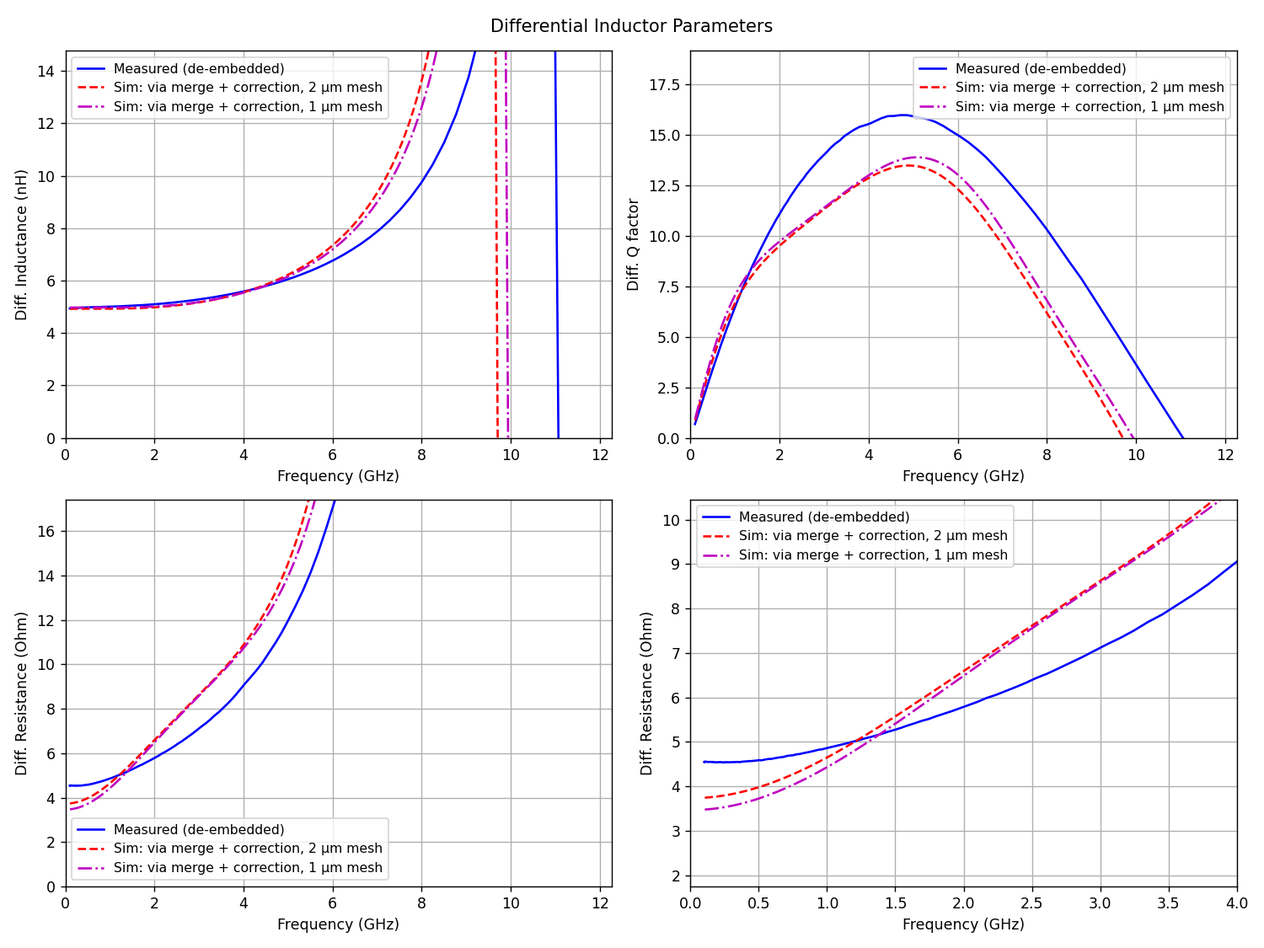
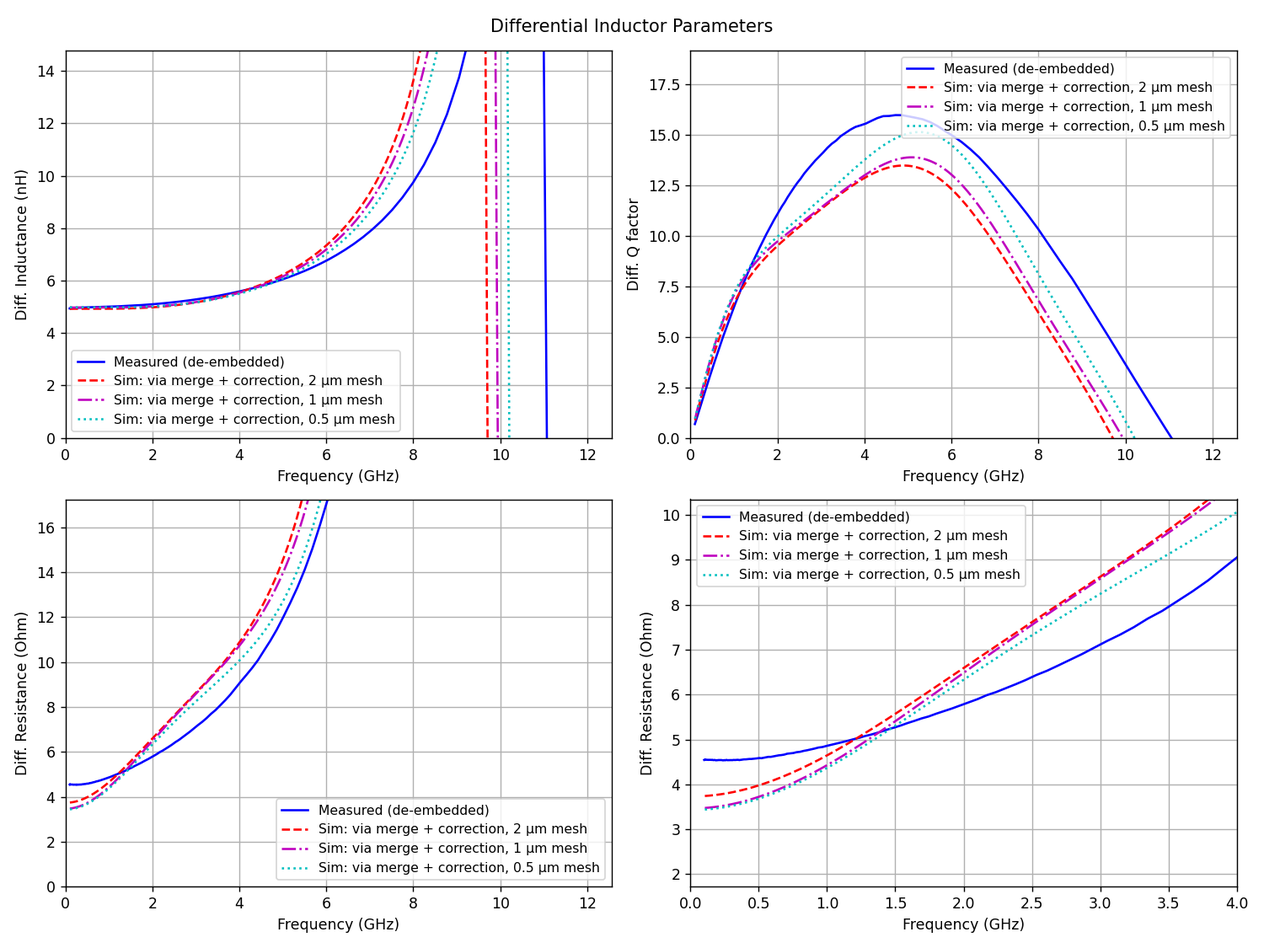
L6n2 study: 0.5 um mesh run, field/mesh plots, review fixes
- Mesh comparison with via fill correction at 2, 1 and 0.5 um
  (run_L6n2_mergecorrection_mesh0u5.py), plus the -60 dB mesh check.
- Layout, stackup and field/mesh detail images.
- Section renames, passivation cut section cleanup, formatting and typos.
- settings['numthreads'] -> settings['numThreads'] in the model scripts.

diff --git a/more_examples/measured_vs_simulated/more_accurate_models_L6n2/results/plot_study.py b/more_examples/measured_vs_simulated/more_accurate_models_L6n2/results/plot_study.py
@@ -28,6 +28,7 @@ def run(name, label):
 
 MEAS = (os.path.join(study_dir, "meas_L5_6n2_THRU_deemb.S2P"), "Measured (de-embedded)")
 MESH1 = run("run_L6n2_mesh1", "Sim: via merge, no correction, 1 µm mesh")
+E40_0U5_CORR = run("run_L6n2_mergecorrection_mesh0u5", "Sim: via merge + correction, 0.5 µm mesh")
 E40 = run("run_L6n2_mergecorrection_sweep_mesh1_limit-40", "Sim: end criterion -40 dB")
 E40_2UM = run("run_L6n2_mergecorrection_sweep_mesh2_limit-40", "Sim: via merge + correction, 2 µm mesh")
 E40_CORR = run("run_L6n2_mergecorrection_sweep_mesh1_limit-40", "Sim: via merge + correction, 1 µm mesh")
@@ -41,7 +42,7 @@ PALACE_REC = run("palace_L6n2_with_ports_2um_passi3D", "Palace: conformal passiv
 
 PLOTS = {
     "step1_via_merge_correction.png": [MEAS, MESH1, E40_CORR],
-    "step2_mesh.png": [MEAS, E40_2UM, E40_CORR],
+    "step2_mesh.png": [MEAS, E40_2UM, E40_CORR, E40_0U5_CORR],
     "step3_energy_limit.png": [MEAS, E40, E50, E60],
     "step4_passicut_2um.png": [MEAS, PLANAR_2UM, PASSICUT_2UM],
     "step4_passicut_1um.png": [MEAS, PASSICUT_2UM, PASSICUT_1UM],

diff --git a/more_examples/measured_vs_simulated/more_accurate_models_L6n2/run_L6n2_mesh1.py b/more_examples/measured_vs_simulated/more_accurate_models_L6n2/run_L6n2_mesh1.py
@@ -43,7 +43,7 @@ settings = {}
 settings['preview_only'] = False  # preview model/mesh only?
 settings['no_gui'] = False # if set to True, there is no mesh/model preview in AppCSXCAD, and simulation starts immediately.
 
-settings['numthreads'] = 0 # run on xx cores, changes to 0 for automatic detection by openEMS
+settings['numThreads'] = 0 # run on xx cores, changes to 0 for automatic detection by openEMS
 
 
 # ===================== input files and path settings =======================

diff --git a/more_examples/measured_vs_simulated/more_accurate_models_L6n2/run_L6n2_mergecorrection_passicut_fielddump.py b/more_examples/measured_vs_simulated/more_accurate_models_L6n2/run_L6n2_mergecorrection_passicut_fielddump.py
@@ -41,7 +41,7 @@ import numpy as np
 settings = {}
 
 settings['preview_only'] = False  # preview model/mesh only?
-settings['numthreads'] = 0 # run on xx cores, changes to 0 for automatic detection by openEMS
+settings['numThreads'] = 0 # run on xx cores, changes to 0 for automatic detection by openEMS
 
 # ===================== input files and path settings =======================
 

diff --git a/more_examples/measured_vs_simulated/more_accurate_models_L6n2/run_L6n2_mergecorrection_passicut_sweep.py b/more_examples/measured_vs_simulated/more_accurate_models_L6n2/run_L6n2_mergecorrection_passicut_sweep.py
@@ -41,7 +41,7 @@ import numpy as np
 settings = {}
 
 settings['preview_only'] = False  # preview model/mesh only?
-settings['numthreads'] = 0 # run on xx cores, changes to 0 for automatic detection by openEMS
+settings['numThreads'] = 0 # run on xx cores, changes to 0 for automatic detection by openEMS
 
 # ===================== input files and path settings =======================
 

diff --git a/more_examples/measured_vs_simulated/more_accurate_models_L6n2/run_L6n2_mergecorrection_sweep.py b/more_examples/measured_vs_simulated/more_accurate_models_L6n2/run_L6n2_mergecorrection_sweep.py
@@ -41,7 +41,7 @@ import numpy as np
 settings = {}
 
 settings['preview_only'] = False  # preview model/mesh only?
-settings['numthreads'] = 0 # run on xx cores, changes to 0 for automatic detection by openEMS
+settings['numThreads'] = 0 # run on xx cores, changes to 0 for automatic detection by openEMS
 
 # ===================== input files and path settings =======================
 

diff --git a/more_examples/measured_vs_simulated/more_accurate_models_L6n2/README.md b/more_examples/measured_vs_simulated/more_accurate_models_L6n2/README.md
@@ -1,41 +1,50 @@
 # L6n2 inductor with openEMS vs. measurement (IHP SG13G2)
 
-This study compares openEMS FDTD simulations of the L6n2 spiral inductor with a de-embedded measurement, one model setting at a time. It is the openEMS counterpart of the gds2palace study in `gds2palace_ihp_sg13g2/more_examples/measured_vs_simulated/more_accurate_models_L6n2`, and uses the same layout, measurement and differential L/R/Q evaluation.
+This study looks for the best possible model with highest accuracy for an inductor example, including comparison to measured data. There is a similar study for the gds2palace FEM workflow and some aspects are similar, but there is also **one important model setting specific to the FDTD method** used here.
 
-## Setup
+If you can't wait ... the best case result and comparison to measured and Palace FEM is at the end of this document.
+
+These potential error sources that are investigated, to get most accurate results:
+
+### Energy limit (FDTD simulation end criteria)
+We will see that the energy limit (FDTD stop criteria) is a critical model parameter here, which makes a real difference in R and Q at these frequencies. It deserves more attention, so this is investigated in detail.
+
+### Over-estimate of via cross section due to via array merging
+In most models, we want to merge via arrays into bigger blocks, to speed up simulation. Leaving all individual vias would be more accurate, causing much more complex mesh and increase simulation time. Via array merging replaces the individual vias by their outer bounding box, and here's the problem: the effective total cross section is now much larger than before, so this under-estimates the resulting via resistance. Only a minor error in many models, because the relative impact of via resistance is small. However, in this model investigated here, it does show up in results, and we will use a new option in gds2openEMS to restore the correct via resistance by applying a correction factor internally.
+
+### Conformal passivation
+The stackup used so far covers TopMetal2 with another thick **flat** layer of SiO2 plus Passivation. This is efficient for simulation, but the gds2palace study had clearly shown that this over-estimates the sidewall capacitance for closely spaced TopMetal2 conductors.  
+An alternative stackup is investigated, for more realistic results. This is **not** the same as used for gds2palace, because we need to consider the FDTD method requirements also.
+
+
+### Conductors model: surface vs. filled volumes ("mesh inside") 
+The FDTD flow with gds2openEMS always used filled metals (volumes with conductivity), so this topic from the FEM study is not relevant here.
+
+## Layout and setup
+
+<img src="results/plots/layout_labeled.png" width="800" alt="L6n2 layout with port positions labeled, IHP SG13G2 pixel-accurate colors (KLayout)">
 
 - **Layout:** `L6n2_with_ports.gds`, a 4-turn octagonal spiral on TopMetal2 (8 µm line width), with TopMetal1 underpasses connected through 8 TopVia2 arrays of 4×4 vias.
 - **Ports:** via ports P1 and P2 from SUBGND (ideal ground plane) to TopMetal1, at the two leads.
 - **Stackups:**
   - `openEMS_SG13G2_200um.xml`: planar, with SiO2 + passivation filling the gaps between the TopMetal2 traces;
-  - `openEMS_SG13G2_200um_passicut.xml`: passivation cut, used in Step 4.
+  - `openEMS_SG13G2_200um_passicut.xml`: passivation cut, see [Planar vs. cut passivation](#planar-vs-cut-passivation).
 - **Solver settings:** PEC boundaries with 250 µm margin, 20 cells per wavelength at fstop, and via array merging with `merge_polygon_size = 2`.
-- **Mesh:** `refined_cellsize` is the mesh size on the conductors: 2 µm or 1 µm.
+- **Mesh:** `refined_cellsize` is the mesh size on the conductors: 2 µm or 1 µm, plus one run at 0.5 µm.
 - **Software:** gds2openEMS 0.5.0 (needed for `settings['fill_factor_correction']`) and openEMS v0.0.36. All runs were on HPZ2; solve times below are for both port excitations together.
-- **Measurement:** `meas_L5_6n2_THRU_deemb.S2P`, de-embedded. It has a differential SRF of **11.07 GHz**, a peak Q of **15.96 at 4.71 GHz**, and a low-frequency differential resistance of **4.55 Ω** at 0.1 GHz.
+- **Measurement:** `meas_L5_6n2_THRU_deemb.S2P`, test fixture de-embedded
 
-All plots show the differential L, Q and R, from Zdiff = Z11 − Z12 − Z21 + Z22 (same calculation as the Palace study). The bottom-right panel zooms in on the low-frequency resistance.
+All plots show the differential L, Q and R, from Zdiff = Z11 − Z12 − Z21 + Z22, same calculation as the gds2palace study. The bottom-right panel zooms in on the low-frequency resistance.
 
-## Step 1: via array merging and the fill factor correction
+## First rrror source: via array merging, solved by fill factor correction
 
-Via array merging replaces each 4×4 via array by one block with the array's outline, roughly a 4× larger conductive cross section. The via conductivity in the stackup comes from the resistance of a single via, so merging lowers the via resistance.
+The effect of via array merging was investigated for this inductor because we have several via arrays, and the 8 μm line width requires small via arrays with only 4x4 vias.  
 
-**Expected size of the effect, from the Palace study:**
-- 8 arrays of 16 vias at 1.1 Ω per via give 8/16 × 1.1 Ω = 0.55 Ω of via resistance in series.
-- A 4× larger cross section removes about 0.4 Ω of that.
+With 8 via arrays and 16 vias each, we have a total of 8/16*1.1 Ohm nominal resistance from the vias = 0.55 Ohm. Via array merging replaces the individual vias by the overall bounding box, roughly a 4x increase in effective cross section. We expect to see a difference of ~ 0.4 Ohm, which sounds like a small effect only, but that is already ~10% of the total inductor resistance in this case (looking at DC values).
 
 `settings['fill_factor_correction'] = True` scales the conductivity of each merged block by its fill factor (original via area / merged area), which is 0.28 here.
 
-**Hand calculation:** to know the true DC resistance, the layout was also solved as a DC resistor network on a raster grid. That network has TopMetal1, TopMetal2 and the via blocks.
-
-| DC network, 0.5 µm grid | R_DC | TopMetal2 | TopMetal1 | Vias |
-|---|---|---|---|---|
-| Merged vias, no correction | 4.38 Ω | 3.66 Ω | 0.55 Ω | 0.17 Ω |
-| Merged vias with fill factor 0.28 | 4.78 Ω | 3.66 Ω | 0.55 Ω | 0.58 Ω |
-
-The difference is 0.40 Ω, as expected. With the correction, the network converges to about 4.7 Ω on finer grids: 4.96 Ω at 1 µm, 4.78 Ω at 0.5 µm and 4.72 Ω at 0.25 µm. The measurement gives 4.55 Ω.
-
-The openEMS runs are `run_L6n2_mesh1.py` (no correction) and the 1 µm, −40 dB case of `run_L6n2_mergecorrection_sweep.py` (with correction). Both use the planar stackup, a 1 µm mesh, fstop 14 GHz and the default end criterion of −40 dB:
+Two openEMS runs are compared, with and without the via array correction factor option that was introduced in gds2openEMS v0.5.0. Both use the planar stackup, a 1 µm mesh, fstop 14 GHz and the default end criterion of −40 dB:
 
 | Model | R @ 0.1 GHz | R @ 1 GHz | L @ 1 GHz | Peak Q | SRF | Solve time |
 |---|---|---|---|---|---|---|
@@ -45,22 +54,28 @@ The openEMS runs are `run_L6n2_mesh1.py` (no correction) and the 1 µm, −40 dB
 
 ![Step 1: via merge with and without fill factor correction](results/plots/step1_via_merge_correction.png)
 
-The correction adds 0.42 Ω, as expected (0.40 Ω). But both openEMS results are far below the hand calculation and the measurement: 3.48 Ω vs. about 4.7 Ω, with an offset of about 1.2 Ω. Inductance agrees well at low frequency, but the SRF and peak Q are too low (the passivation model, Step 4).
+The correction adds 0.42 Ω, as expected (0.40 Ω). But both openEMS results are far below the hand calculation and the measurement: 3.48 Ω vs. about 4.7 Ω, with an offset of about 1.2 Ω. Inductance agrees well at low frequency, but the SRF and peak Q are too low (the passivation model, see [Planar vs. cut passivation](#planar-vs-cut-passivation)).
 
-## Step 2: is the low resistance a mesh effect?
+You might notice a weird shape of the Q factor curve, this is a side effect of the energy convergence issue discussed below as error source 2.
 
-`run_L6n2_mergecorrection_sweep.py` also runs Step 1's corrected model with a 2 µm mesh. Both runs use the planar stackup, fstop 14 GHz and −40 dB:
+## Is the low resistance a mesh effect?
+
+`run_L6n2_mergecorrection_sweep.py` also runs the corrected model from error source 1 with a 2 µm mesh, and `run_L6n2_mergecorrection_mesh0u5.py` runs it with a 0.5 µm mesh. All runs use the planar stackup, fstop 14 GHz and −40 dB:
 
 | Mesh (via merge + correction, −40 dB) | R @ 0.1 GHz | L @ 1 GHz | Peak Q | SRF | Solve time |
 |---|---|---|---|---|---|
 | 2 µm | 3.74 Ω | 4.93 nH | 13.46 @ 4.90 GHz | 9.71 GHz | 118 s |
 | 1 µm | 3.48 Ω | 4.97 nH | 13.87 @ 5.08 GHz | 9.94 GHz | 689 s |
+| 0.5 µm | 3.44 Ω | 4.98 nH | 15.12 @ 5.25 GHz | 10.21 GHz | 5,506 s |
 
-![Step 2: 2 µm and 1 µm mesh](results/plots/step2_mesh.png)
+![Step 2: 2 µm, 1 µm and 0.5 µm mesh](results/plots/step2_mesh.png)
 
-A finer mesh does not move the low-frequency resistance towards 4.7 Ω; the 1 µm result is even further away. So this is obviously not a mesh effect. The stackups were also checked: conductor conductivities, thicknesses and via fill factor are identical to the Palace model, which gives 4.69 Ω.
+A finer mesh does not move the low-frequency resistance towards 4.7 Ω: 2 µm to 1 µm lowers it by 0.26 Ω, and 1 µm to 0.5 µm by only 0.04 Ω, at 8x the solve time. So this is obviously not a mesh effect. The 0.5 µm mesh raises peak Q and SRF somewhat, but at −40 dB these are still affected by error source 2 below. The stackups were also checked: conductor conductivities, thicknesses and via fill factor are identical to the Palace model, which gives 4.69 Ω.
 
-## Step 3a: the energy end criterion, synthetic testcase
+Once the end criterion is fixed (error source 2 below), the mesh matters even less: at −60 dB, the planar model gives 4.66 Ω with the 2 µm mesh and 4.68 Ω with the 1 µm mesh.
+
+## Second error source: the energy end criterion
+### Synthetic testcase
 
 openEMS stops the simulation when the energy left in the model has dropped below `settings['energy_limit']`, which is −40 dB in all runs so far.
 
@@ -69,15 +84,29 @@ A synthetic testcase isolates the effect: a straight TopMetal2 line, 8 µm wide,
 | Test line | R @ 0.1 GHz | Analytic | Error | L |
 |---|---|---|---|---|
 | 300 µm, −40 dB | 0.505 Ω | 0.411 Ω | +23% | 161 pH |
-| 300 µm, −60 dB | 0.412 Ω | 0.411 Ω | +0.2% | 171 pH |
+| 300 µm,**−60 dB** | 0.412 Ω | 0.411 Ω | +0.2% | 171 pH |
 | 600 µm, −40 dB | 1.040 Ω | 0.824 Ω | +26% | 312 pH |
-| 600 µm, −60 dB | 0.819 Ω | 0.824 Ω | −0.6% | 336 pH |
+| 600 µm, **−60 dB** | 0.819 Ω | 0.824 Ω | −0.6% | 336 pH |
 
 At −40 dB, R and L at low frequency are off by 6–26%, and R even falls with frequency. At −60 dB, both are correct. A 45° line gave the same picture (0.475 Ω vs. 0.411 Ω at −40 dB), so the staircase approximation of diagonal traces is not the cause either.
 
-## Step 3b: the energy end criterion, applied to inductor model
+### Spectral power density in Gaussian pulse used for FDTD excitation
 
-`run_L6n2_mergecorrection_sweep.py` repeats the L6n2 model (1 µm mesh, via merge + correction, fstop 14 GHz) at three end criteria:
+One idea regarding error sources was the **spectral distribution of the Gaussian pulse excitation**, which is symmetric around the center frequency, 7 GHz center frequency for 0-14 GHz sweep. The plot below shows the frequency spectrum of the excitation signal, we can see that there is enough spectral content down to DC. The power at 0.1 GHz is 13.5 dB below its spectral peak, not an issue for accuracy.
+
+![Excitation power spectrum, fstop 14 GHz](results/plots/L6n2_excitation_spectrum.png)
+
+The problem is **not** the spectrum. 
+
+### Energy end criterion, applied to inductor model
+
+In FDTD, we terminate the simulation when the residual energy in the simulation volume is below a user defined threshold. For the simulations shown so far, that was -40dB.
+
+```python
+settings['energy_limit'] = -40          # end criteria for residual energy (dB)
+```
+
+We will now check the effect of this setting on results of our inductor simulation. `run_L6n2_mergecorrection_sweep.py` repeats the L6n2 model at three end criteria, all using the same 1 µm mesh, via merge + correction, fstop 14 GHz:
 
 | End criterion | Timesteps | R @ 0.1 GHz | R @ 1 GHz | L @ 1 GHz | Peak Q | SRF | Solve time |
 |---|---|---|---|---|---|---|---|
@@ -87,19 +116,19 @@ At −40 dB, R and L at low frequency are off by 6–26%, and R even falls with 
 
 ![Step 3: end criterion −40, −50 and −60 dB](results/plots/step3_energy_limit.png)
 
+This shows a strong effect, the strange shape of Q factor disappears and the result for low-frequency series R changes as well.  
+
 At −60 dB, the low-frequency resistance is 4.68 Ω: it matches the DC hand calculation (about 4.7 Ω) and the Palace result (4.69 Ω), and it is close to the measurement (4.55 Ω). SRF is unaffected by the end criterion.
 
-Why −40 dB fails is visible in the raw openEMS signals. The excitation pulse is not short of low-frequency content: its power at 0.1 GHz is 13.5 dB below its peak.
+The problem is when the run hits the energy criterion and stops. 
 
-![Excitation power spectrum, fstop 14 GHz](results/plots/L6n2_excitation_spectrum.png)
-
-The problem is when the run stops. The time step is 1.63 fs, and the excitation pulse lasts 409 ps (251 k steps). Timesteps above are read from the end of the port probe signal.
+Below is a plot of time signals, read from the openEMS raw output files. Time step is 1.63 fs, and the excitation pulse lasts 409 ps (251 k steps). Timesteps above are read from the end of the port probe signal.
 
 - The −40 dB run stops at the end of the excitation pulse (402 ps), while the port 2 voltage is still only 38 dB below its maximum.
 - The −50 dB run continues to 491 ps (port 2 at −60 dB).
 - The −60 dB run continues to 768 ps (port 2 at −77 dB).
 
-All three runs are identical up to the point where each one stops; the end criterion only decides how much of the response is recorded.
+All three runs are identical up to the point where each one stops; the end criterion only decides how much of the response is recorded before simulation stops and the time-domain data is FFT'ed.
 
 ![Port 1 and port 2 voltages in the time domain, dB scale](results/plots/L6n2_port_voltages_time_domain.png)
 
@@ -118,11 +147,23 @@ The low-frequency end is simply where the −40 dB ripple happens to be at its l
 
 **Conclusion:** for the low-frequency resistance of an inductor, use `settings['energy_limit'] = -60`, or at least −50 dB. On the 1 µm mesh this costs about 1.7× the solve time of −40 dB.
 
-## Step 4: planar vs. cut passivation
+## Third error source: non-planar dielectrics covering TopMetal2
 
-With the resistance fixed, the SRF is still too low: 9.9 GHz simulated vs. 11.07 GHz measured. The planar stackup fills the gaps between the TopMetal2 traces completely with SiO2 + passivation, which overestimates the sidewall capacitance between the closely spaced turns. `openEMS_SG13G2_200um_passicut.xml` sizes the SiO2 for the valleys between the traces instead, cutting TopMetal2 about halfway.
+With the resistance fixed, the SRF is still too low: 9.9 GHz simulated vs. 11.07 GHz measured. 
 
-`run_L6n2_mergecorrection_passicut_sweep.py` runs this stackup with 2 µm and 1 µm mesh, using the −60 dB end criterion from Step 3. The comparison with the planar stackup uses the coarse 2 µm mesh for both, from `run_L6n2_mergecorrection_sweep.py` and `run_L6n2_mergecorrection_passicut_sweep.py`:
+The planar stackup used so far fills the gaps between the TopMetal2 traces completely with SiO2 + passivation, which overestimates the sidewall capacitance between the closely spaced turns.
+
+![(Passivation)](results/plots/conformal_passivation.png)
+
+Planar stackup used so far with another thick block of SiO2 + Passivation above TopMetal2 top edge:
+![(Passivation)](results/plots/planar_stackup.png)
+
+
+An alternative stackup, [openEMS_SG13G2_200um_passicut.xml](openEMS_SG13G2_200um_passicut.xml), leaves out the conformal cover over TopMetal2, and just places the correct thickness of SiO2 and Passivation in the **valleys** between TopMetal2 shapes, cutting TopMetal2 about halfway. This avoids the over-estimate of sidewall capacitance from the original stackup, and avoids the extra effort of dielectrics conformal around TopMetal2.
+
+> **Difference to FEM using gds2palace:** The fully conformal stackup used for gds2palace FEM is **not** used here, because it has dielectric sidewall thickness of 600nm and would require really small refined_cellsize to resolve these details. That's not a good idea for FDTD because it would drive up mesh cell count heavily. Instead, we use the "passicut" method here, which was dropped in the gds2palace study. Different solver methods require different modelling strategies!
+
+`run_L6n2_mergecorrection_passicut_sweep.py` runs this stackup with 2 µm and 1 µm mesh at −60 dB. For a comparison to the previous planar stackup (from `run_L6n2_mergecorrection_sweep.py`), we compare results at 2 µm refined_cellsize:
 
 | Model (via merge + correction, −60 dB) | R @ 0.1 GHz | R @ 1 GHz | L @ 1 GHz | Peak Q | SRF | Solve time |
 |---|---|---|---|---|---|---|
@@ -146,11 +187,21 @@ Refining to 1 µm gives the final result:
 
 The final model agrees with the measurement within 3% in low-frequency resistance, 4% in inductance, 0.1% in SRF and 9% in peak Q. The peak Q frequency is 4.72 GHz vs. 4.71 GHz measured. The 2 µm mesh is already close, at about 1/6 of the solve time.
 
-These 1 µm results use the z mesher from 28-Sep-2026 (gds2openEMS `util_meshlines.create_z_mesh()`). The previous mesher placed a TopMetal2 subdivision line 0.1 µm from the passivation top, which lies inside TopMetal2 in this stackup. That tiny cell forced a small FDTD time step. With the old mesh, the same model gave SRF 10.93 GHz and peak Q 14.52, and took 8,469 s instead of 2,037 s. Resistance and inductance were the same.
+**This study also revealed an issue in the meshing algorithm in z direction**, which had caused an unexpected small cell size and slowed down simulation more than necessary. This was fixed by a code change: The 1 µm results shown here use the gds2openEMS version from 28-Sep-2026. The previous mesher placed a TopMetal2 subdivision line 0.1 µm from the passivation top, which is much below the refined_cellsize values. That tiny cell forced a small FDTD time step. With the old mesh, the same model gave SRF 10.93 GHz and peak Q 14.52, and took 8,469 s instead of 2,037 s. Resistance and inductance were the same.
+
+## Mesh size revisited: 1 µm vs. 2 µm
+Above, we had seen that the error in low frequency R and Q was not due to coarse meshing, and even refined_cellsize=2 µm was giving reasonable results. Note that this finding is **valid for this particular geometry with 8µm line width and 4 µm gap**. For geometries with narrower gaps, it might be necessary to go smaller in refined_cellsize, because that controls the "staircasing" by FDTD mesh on diagonal lines.
+
+If you go too coarse, the staircase mesh will create rough edges and even shorts across the gap. To illustrate that staircasing, the plots below show the calculated E field in the gap and the mesh line overlay at 1 µm and 2 µm, from `run_L6n2_mergecorrection_passicut_fielddump.py`.
+
+| 1 µm mesh | 2 µm mesh |
+|---|---|
+| ![E field, 1 µm mesh](results/plots/Efield_mesh1.png) | ![E field, 2 µm mesh](results/plots/Efield_mesh2.png) |
+| ![Mesh detail, 1 µm mesh](results/plots/mesh1_detail.png) | ![Mesh detail, 2 µm mesh](results/plots/mesh2_detail.png) |
 
 ## Comparison: measurement, openEMS and gds2palace
 
-The final openEMS model from Step 4 against the model the gds2palace study recommends:
+The final openEMS model from [Planar vs. cut passivation](#planar-vs-cut-passivation) against the model the gds2palace study recommends:
 
 - **openEMS:** passivation cut, via merge + correction, 1 µm mesh, −60 dB end criterion.
 - **Palace:** conformal passivation, filled metals (volume mesh), via merge + correction, 2 µm mesh. That study found its 1 µm run changed very little at twice the cost. Its S-parameters are copied to `results/palace_L6n2_with_ports_2um_passi3D.s2p`.
@@ -172,7 +223,11 @@ The two solvers agree with each other within:
 
 Both deviate from the measurement the same way: low-frequency resistance about 3% high, inductance 2–4% low, and peak Q 8–9% low. The SRF is 0.1% high for openEMS and 1.0% low for Palace.
 
-Note that the two use different passivation models: Palace uses the conformal 3D passivation from derived layers, openEMS the passivation cut stackup. The openEMS solve time is the sum of both port excitations on HPZ2; the Palace solve time is the value reported in the gds2palace study.
+Note that the two use **different passivation models here**:  openEMS uses the "passivation cut" stackup, because that is a better match to the cellsize used in these FDTD models. Palace uses the conformal 3D passivation from derived layers, at small extra cost compared to the "passivation cut" model (34 min 29 s vs. 29 min 4 s at a similar mesh size, in the gds2palace study). 
+
+Also note that the **meaning of refined_cellsize is different between both workflows**: in gds2openEMS this is about the **smallest** in-plane cellsize, geometry detail below this will be lost or clipped to the mesh (only thin layers still get smaller cells in z direction). In the gds2palace workflow, refined_cellsize is the **maximum** cellsize along the edges of the conductors, the actual mesh for small details can be much lower, only limited by the geometry itself. Same parameter names, but different meaning, so you usually need to use different values when switching between FDTD and FEM workflow! 
+
+Time reported in the table is the time to get the full S-parameters over the full sweep, running on HP Z2 mini G2a with Ryzen AI Max+ 395 (Strix Halo) and 128 GB RAM. OpenEMS was set to automatic thread count, Palace was using 16 threads.
 
 ## Files
 
